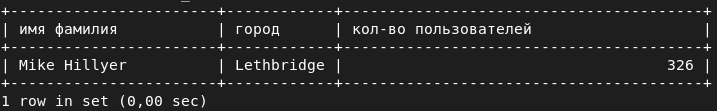
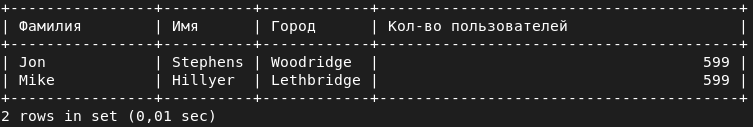
3

diff --git a/12.04 «SQL. Часть 2».md b/12.04 «SQL. Часть 2».md
@@ -10,23 +10,24 @@
 ### *Ответ*:
 ```sql
 SELECT
-	concat(s2.first_name, ' ', s2.last_name) AS "имя фамилия",
-	c2.city AS "город",
-	count(*) AS "кол-во пользователей"
+	s.first_name AS "Фамилия",
+	s.last_name AS "Имя",
+	c.city AS "Город",
+	count(c2.first_name) AS "Кол-во пользователей"
 FROM
-	customer
-INNER JOIN store s ON
-	c.store_id = s.store_id
+	staff s
 JOIN address a ON
-	s.address_id = a.address_id
-JOIN city c2 ON
-	a.city_id = c2.city_id
-JOIN staff s2 ON
-	s.manager_staff_id = s2.staff_id
+	a.address_id = s.address_id
+JOIN city c ON
+	c.city_id = a.city_id
+JOIN customer c2 ON
+	c2.customer_id = c2.customer_id
 GROUP BY
-	c.store_id
+	c.city,
+	s.first_name,
+	s.last_name
 HAVING
-	count(c.store_id) > 300;
+	count(c2.customer_id) > 300;
 ```
 ![image](https://github.com/Anders1994/Homework/blob/main/ScreenShots/%D0%A1%D0%BA%D1%80%D0%B8%D0%BD%20539.png)
 
